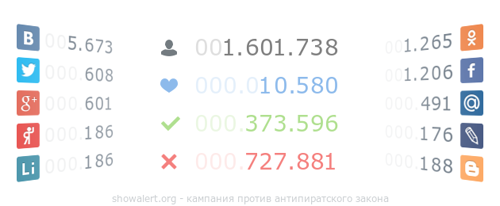
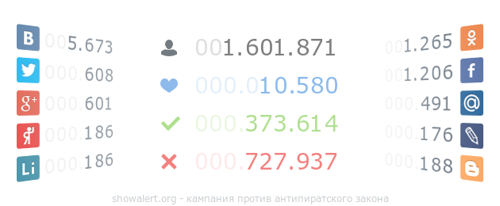
some updates

Changed region(s): [[0.57, 0.7282, 0.69, 0.8447], [0.57, 0.1748, 0.69, 0.2913], [0.57, 0.5534, 0.69, 0.6408]]

diff --git a/votes.js b/votes.js
@@ -1,1 +1,1 @@
-window.lk.votes(23754)
+window.lk.votes(23756)
